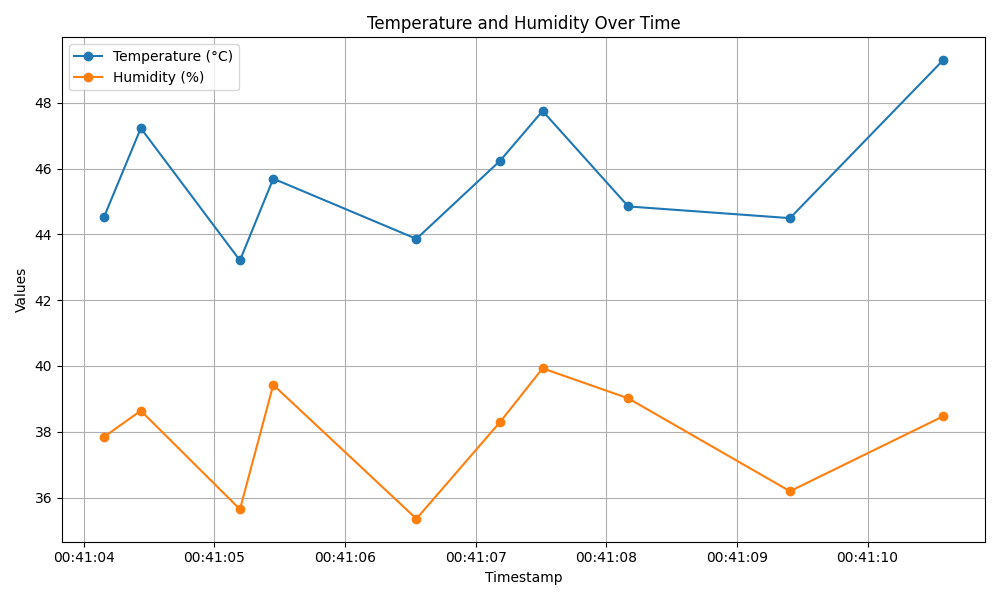
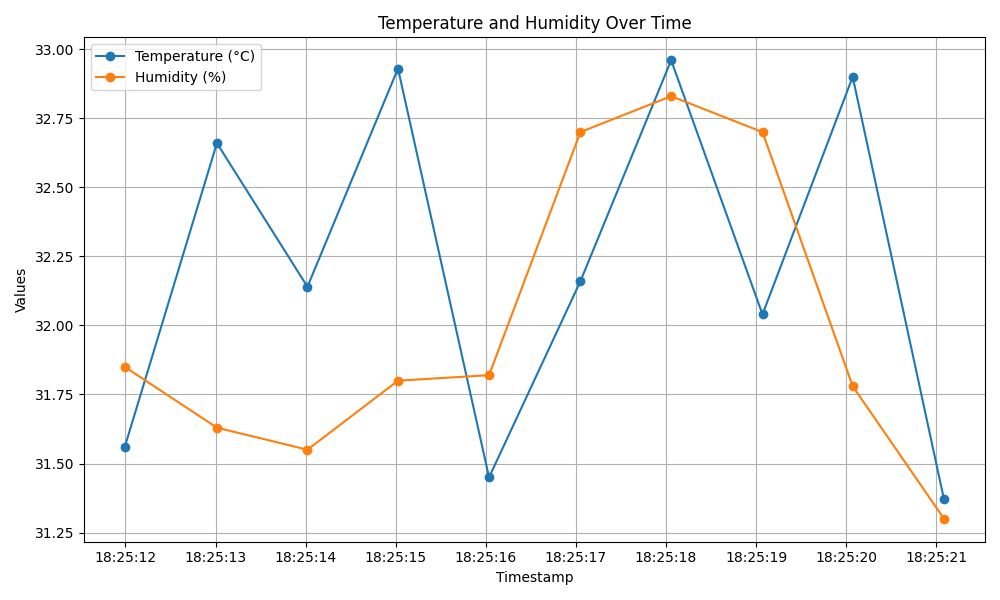
Big update

diff --git a/Templates/index.html b/Templates/index.html
@@ -9,8 +9,14 @@
 </head>
 <body>
     <h1>DHT22 Sensor Data</h1>
-    <p>Temperature: <span id="temp">{{ temp_range }}</span></p>
-    <p>Humidity: <span id="humidity">{{ humidity_range }}</span></p>
+    <p>Temperature: <span id="temp">{{ sensor_data["temp"] }}</span></p>
+    <p>Humidity: <span id="humidity">{{ sensor_data["humidity"] }}</span></p>
+
+    {% if 20 <= sensor_data["temp"] <= 25 %}
+        <p>Temperature is within the expected range (20-25 ºC)</p>
+    {% else %}
+        <p style="color: red;">Temperature is outside the expected range (20-25 ºC)</p>
+    {% endif %}
     
     <canvas id="temperatureChart" width="400" height="200"></canvas>
     <canvas id="humidityChart" width="400" height="200"></canvas>

diff --git a/dht22_sim.py b/dht22_sim.py
@@ -1,91 +1,80 @@
-import time
-import random
-import json
-import threading
-import paho.mqtt.client as mqtt
 import os
+import logging
+import paho.mqtt.client as mqtt
+import time
+import json
+import random  # Added for simulation
 
-# LED Configuration
-class LED:
-    def __init__(self, pin):
-        self.pin = pin
-        self.pwmval = 1023
+# Environment variables and MQTT configuration
+LOG_LEVEL = os.getenv("LOG_LEVEL", "INFO").upper()
+SENSOR_TYPE = os.getenv("SENSOR_TYPE", "DHT22").upper()
+SENSOR_PIN = int(os.getenv('SENSOR_PIN', '4'))
+SENSOR_CHECK_INTERVAL = int(os.getenv('SENSOR_CHECK_INTERVAL', 30))
+DECIMAL_POINTS = int(os.getenv("SENSOR_DECIMAL_POINTS", 2))
 
-    def duty(self, value):
-        self.pwmval = value
-        print(f"LED Duty: {value}")
+MQTT_HOSTNAME = os.getenv("MQTT_HOSTNAME", "localhost")
+MQTT_PORT = int(os.getenv("MQTT_PORT", 1883))
+MQTT_TIMEOUT = int(os.getenv("MQTT_TIMEOUT", 60))
+MQTT_TOPIC = os.getenv("MQTT_TOPIC", 'sensor/value')
+MQTT_CLIENT_ID = os.getenv("MQTT_CLIENT_ID", "dht-sensor-mqtt")
+MQTT_CLEAN_SESSION = os.getenv("CLIENT_CLEAN_SESSION", False)
+MQTT_TLS_INSECURE = os.getenv("CLIENT_TLS_INSECURE", True)
+MQTT_CLIENT_QOS = int(os.getenv("CLIENT_QOS", 0))
+MQTT_USERNAME = os.getenv('MQTT_USERNAME', None)
+MQTT_PASSWORD = os.getenv('MQTT_PASSWORD', None)
 
-led_blue = LED(2)
+# Logging configuration
+def configure_logging():
+    level_map = {
+        'INFO': logging.INFO,
+        'DEBUG': logging.DEBUG,
+        'WARN': logging.WARNING,
+        'ERROR': logging.ERROR
+    }
 
-# MQTT Configuration
-MQTT_CLIENT_ID = "zhengzhixin22060540765642"
-MQTT_BROKER = "broker.emqx.io"
-MQTT_USER = ""
-MQTT_PASSWORD = ""
-MQTT_TOPIC = os.environ.get("MQTT_TOPIC", "default_topic")
+    log_level = level_map.get(LOG_LEVEL, "Unsupported log level provided!")
+    logging.basicConfig(level=log_level)
 
-# Count variable
-count = 0
+# MQTT callbacks
+def on_connect(client, userdata, flags, rc):
+    logging.info("Connected to the MQTT broker!")
 
-# MQTT Callback
-def on_message(client, userdata, message):
-    global count, led_blue
+def on_disconnect(client, userdata, flags, rc):
+    logging.warn(f"Disconnected from the MQTT broker. End state - '{rc}'")
 
-    topic = message.topic
-    msg = message.payload.decode("utf-8")
+# Main execution
+if __name__ == '__main__':
+    configure_logging()
 
-    if topic == f"ledctl{MQTT_TOPIC.split('/')[1]}":
-        print((topic, msg))
-        if msg == "on":
-            pwmval = 0
-            led_blue.duty(pwmval)
-        elif msg == "off":
-            pwmval = 1023
-            led_blue.duty(pwmval)
+    if MQTT_HOSTNAME is None or MQTT_PORT is None:
+        logging.error("Could not acquire MQTT broker connection parameters...")
+        exit(1)
 
-    elif topic == f"pwmled{MQTT_TOPIC.split('/')[1]}":
-        pwmval = int(((100 - int(msg)) / 100) * 1023)
-        if pwmval > 1023: pwmval = 1023
-        if pwmval < 0: pwmval = 0
-        print((topic, pwmval))
-        led_blue.duty(pwmval)
+    client = mqtt.Client(MQTT_CLIENT_ID, MQTT_CLEAN_SESSION)
+    client.username_pw_set(MQTT_USERNAME, MQTT_PASSWORD)
+    client.on_connect = on_connect
+    client.on_disconnect = on_disconnect
+    client.connect(MQTT_HOSTNAME, MQTT_PORT, MQTT_TIMEOUT)
+    client.loop_start()
 
-# MQTT Client Setup
-client = mqtt.Client(MQTT_CLIENT_ID)
-client.username_pw_set(MQTT_USER, MQTT_PASSWORD)
-client.connect(MQTT_BROKER)
-client.subscribe("ledctl2206054076")
-client.subscribe("pwmled2206054076")
-client.subscribe("ledstatus2206054076")
-client.on_message = on_message
-
-# Thread for LED control
-def led_thread():
-    global count
+    logging.info("Successfully initialized application! Starting simulation...")
 
     while True:
-        for i in range(1, 6):
-            instance = f"instance{i}"
-            print(f"Measuring weather conditions for {instance}... ", end="")
-            humidity, temperature = random.uniform(30.1, 31), random.uniform(33.2, 33.7)
-            msg_data = {
-                "temp": temperature,
-                "humidity": humidity,
-                "instance": instance
+        try:
+            # Simulate sensor readings
+            temperature = random.uniform(31, 33)
+            humidity = random.uniform(31, 33)
+
+            # Log and publish the simulated data
+            logging.debug(f"Simulated sensor values - temperature '{temperature}', humidity '{humidity}'")
+            data = {
+                'temperature': round(temperature, DECIMAL_POINTS),
+                'humidity_percentage': round(humidity, DECIMAL_POINTS)
             }
-            message = json.dumps(msg_data)
-            print("Updated!")
-            print(f"Reporting to MQTT topic {MQTT_TOPIC}: {message}")
-            client.publish(MQTT_TOPIC, message)
-            time.sleep(1)
 
-# Use threading for the common instance
-thread = threading.Thread(target=led_thread)
-thread.start()
-
-        
-# MQTT Message Loop
-while True:
-    client.loop_start()
-    time.sleep(1)
-
+            logging.debug(f"Publishing data to topic - '{MQTT_TOPIC}'")
+            client.publish(MQTT_TOPIC, json.dumps(data))
+        except Exception as e:
+            logging.error(f"Error in simulation: {e}")
+        finally:
+            time.sleep(SENSOR_CHECK_INTERVAL)

diff --git a/dhtt22_info_website.py b/dhtt22_info_website.py
@@ -1,100 +1,60 @@
-from flask import Flask, render_template
-from flask import jsonify, send_from_directory
+from flask import Flask, render_template, jsonify, send_from_directory
 from flask_socketio import SocketIO
-import paho.mqtt.client as mqtt
 import json
+import random
+import time
+import threading
+import pandas as pd
+from sklearn.linear_model import LinearRegression
+import joblib
 
 app = Flask(__name__)
 socketio = SocketIO(app)
 
-# MQTT Configuration
-MQTT_BROKER = "broker.emqx.io"
-MQTT_USER = ""
-MQTT_PASSWORD = ""
-MQTT_TOPIC = "zhengxhixin/2206054076"
-
-# Initial sensor data
+# Simulated Sensor Data
 sensor_data = {"temp": 0, "humidity": 0}
 
-# MQTT Callback
-def on_message(client, userdata, message):
+def simulate_sensor_data():
     global sensor_data
+    while True:
+        sensor_data = {
+            "temp": round(random.uniform(31, 33), 2),
+            "humidity": round(random.uniform(31, 33), 2)
+        }
+        socketio.emit("sensor_update", sensor_data, namespace="/sensor")
+        time.sleep(1)
 
-    topic = message.topic
-    payload = message.payload.decode("utf-8")
+thread = threading.Thread(target=simulate_sensor_data)
+thread.daemon = True
+thread.start()
 
-    if topic == MQTT_TOPIC:
-        try:
-            data = json.loads(payload)
-            sensor_data = data
-            print("Received MQTT message:", sensor_data)
-            socketio.emit("sensor_update", sensor_data, namespace="/sensor")
-        except json.JSONDecodeError as e:
-            print(f"Error decoding JSON: {e}")
-
-# MQTT Client Setup
-client = mqtt.Client()
-client.username_pw_set(MQTT_USER, MQTT_PASSWORD)
-client.connect(MQTT_BROKER)
-client.subscribe(MQTT_TOPIC)
-client.on_message = on_message
-client.loop_start()
-
-# Web server route to render the HTML page with sensor data
 @app.route("/")
 def home():
-    return render_template("index.html", temp_range=get_temperature_range(sensor_data["temp"]),
-                           humidity_range=get_humidity_range(sensor_data["humidity"]))
+    return render_template("index.html", sensor_data=sensor_data)
 
 @socketio.on("connect", namespace="/sensor")
 def handle_connect():
     print("Client connected")
-    
-def get_temperature_range(temp):
-    if 20 <= temp <= 25:
-        return "20-25 ºC"
-    else:
-        return "Unknown range"  
 
-def get_humidity_range(humidity):
-    if 60 <= humidity <= 70:
-        return "60-70%"
-    else:
-        return "Unknown range"
-        
 @app.route("/download_csv")
 def download_csv():
-    # ... (your existing code to generate CSV)
-
-    # Save the CSV file on the server
+    # Assume csv_content is defined and contains CSV data
     csv_path = "static/sensor_data.csv"
     with open(csv_path, "w") as csv_file:
         csv_file.write(csv_content)
-
     return send_from_directory("static", "sensor_data.csv", as_attachment=True)
 
 @app.route("/train_model")
 def train_model():
-    # Load the CSV file
     df = pd.read_csv('static/sensor_data.csv')
-
-    # Preprocess the data (assuming timestamp is in a valid datetime format)
     df['timestamp'] = pd.to_datetime(df['timestamp'])
-    df['timestamp'] = df['timestamp'].astype(int) // 10**9  # Convert timestamp to seconds for simplicity
-
-    # Assuming you have 'timestamp' and 'temperature' columns for this example
+    df['timestamp'] = df['timestamp'].astype(int) // 10**9
     X = df[['timestamp']]
     y = df['temperature']
-
-    # Train a simple linear regression model
     model = LinearRegression()
     model.fit(X, y)
-
-    # Save the trained model (you might want to store it for future use)
     joblib.dump(model, 'static/temperature_model.joblib')
-
     return jsonify({"message": "Model trained successfully."})
 
 if __name__ == "__main__":
     socketio.run(app, host="0.0.0.0", port=5000, debug=True)
-

diff --git a/test.py b/test.py
@@ -1,0 +1,38 @@
+import pandas as pd
+from sklearn.model_selection import train_test_split
+from sklearn.linear_model import LinearRegression
+from sklearn.metrics import mean_squared_error
+import matplotlib.pyplot as plt
+
+# Use Pandas to read Excel file, explicitly specifying the engine
+dataset = pd.read_excel(r"C:\Users\Manuel Aidos\Documents\firstDataset.xlsx", engine='openpyxl')
+
+# Display the first 14 rows of the dataset
+print(dataset.head(14))
+
+X = dataset[['Size']]
+y = dataset['Price']
+
+# Split the dataset into training and testing sets
+X_train, X_test, y_train, y_test = train_test_split(X, y, test_size=0.2, random_state=42)
+
+# Create a linear regression model
+model = LinearRegression()
+
+# Fit the model on the training data
+model.fit(X_train, y_train)
+
+# Make predictions on the testing data
+y_pred = model.predict(X_test)
+
+# Evaluate the model
+mse = mean_squared_error(y_test, y_pred)
+print(f'Mean Squared Error: {mse}')
+
+# Visualize the results
+plt.scatter(X_test, y_test, color='black', label='Actual')
+plt.scatter(X_test, y_pred, color='blue', label='Predicted')
+plt.xlabel('Size')
+plt.ylabel('Price')
+plt.legend()
+plt.show()

diff --git a/graphicShow.py b/graphicShow.py
@@ -4,7 +4,7 @@ import glob
 import os
 
 # Find the latest CSV file in the directory
-csv_files = glob.glob('D:\Transferencias\sensor_data_with_month (1).csv')  
+csv_files = glob.glob('D:\Transferencias\sensor_data_with_month (11).csv')  
 latest_csv = max(csv_files, key=os.path.getctime)
 
 # Load the CSV file
